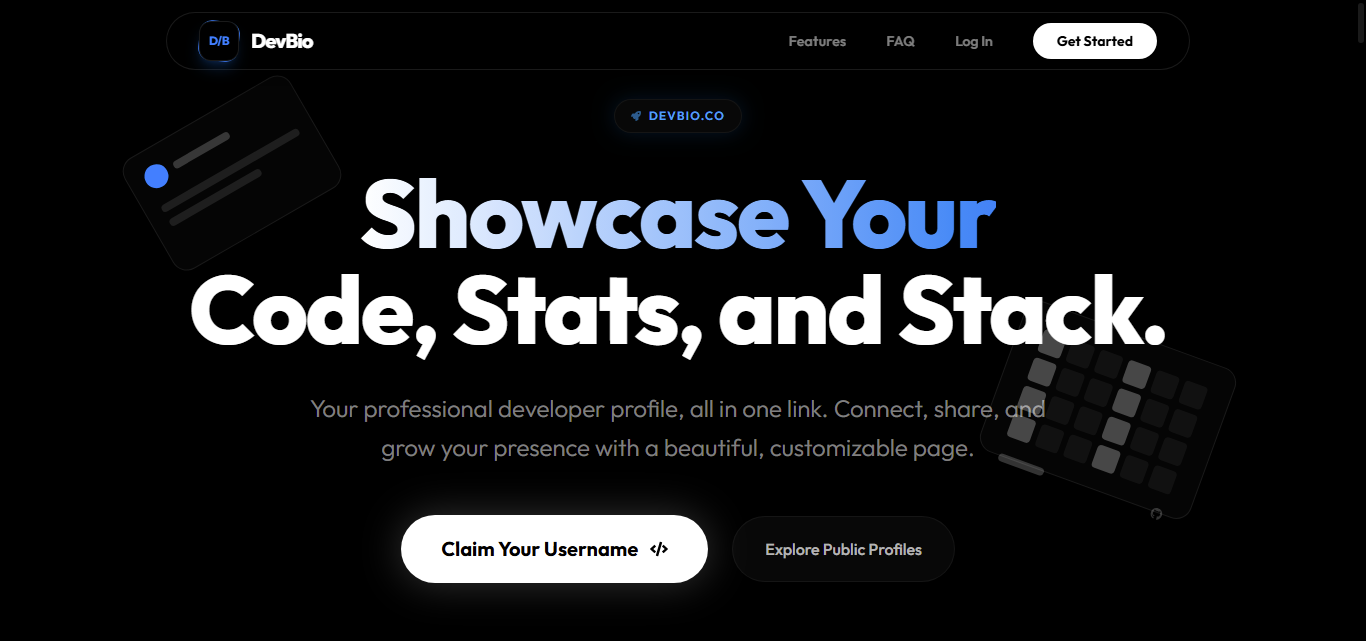
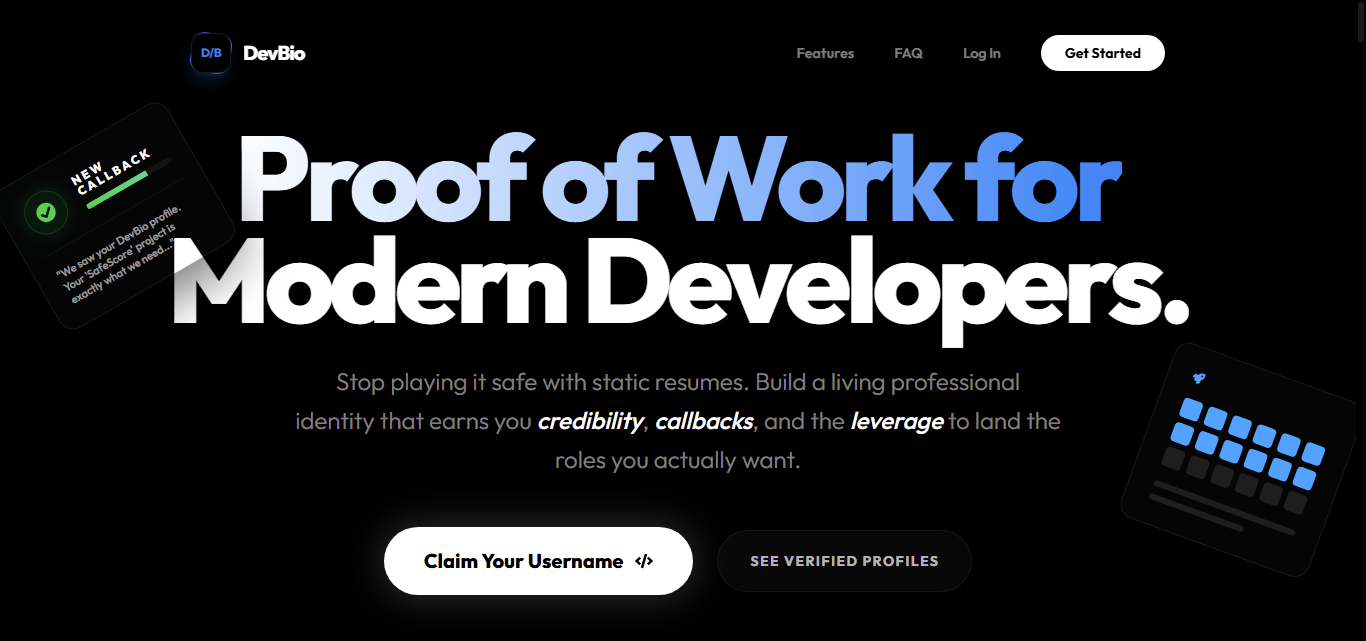
Changed "Showcase your work" to "Proof of Work" to emphasize credibility.

diff --git a/components/landingpage/Hero.tsx b/components/landingpage/Hero.tsx
@@ -1,7 +1,7 @@
 import React from 'react';
 import Link from 'next/link';
 import { motion } from 'framer-motion';
-import { FaGithub, FaCode, FaRocket } from 'react-icons/fa';
+import { FaGithub, FaCode, FaRocket, FaCheckCircle } from 'react-icons/fa';
 
 const Hero: React.FC = () => (
     <section className="relative min-h-screen flex flex-col items-center justify-center pt-32 pb-20 px-6 overflow-hidden">
@@ -11,20 +11,32 @@ const Hero: React.FC = () => (
             <div className="absolute bottom-0 left-1/2 -translate-x-1/2 w-full h-[1px] bg-gradient-to-r from-transparent via-white/10 to-transparent" />
         </div>
 
-        {/* Floating Elements */}
+        {/* Floating Elements - Visualizing the "Payoff" */}
         <motion.div
             initial={{ opacity: 0, scale: 0.8, rotate: -15 }}
             animate={{ opacity: 1, scale: 1, rotate: -15 }}
             transition={{ duration: 1, delay: 0.2 }}
-            className="hidden lg:block absolute top-[20%] left-[10%] w-48 h-32 glass-card rounded-2xl p-4 rotate-[-15deg] opacity-40 hover:opacity-100 transition-opacity"
+            className="hidden lg:block absolute top-[15%] left-[1%] w-50 glass-card rounded-2xl p-5 rotate-[-15deg] opacity-90 hover:opacity-100 transition-all hover:scale-110 z-20 shadow-[0_20px_50px_rgba(0,0,0,0.5)] border-white/10"
         >
-            <div className="flex items-center gap-2 mb-4">
-                <div className="w-6 h-6 rounded-full bg-blue-500" />
-                <div className="h-2 w-16 bg-white/20 rounded-full" />
+            <div className="flex items-center gap-4 mb-4 border-b border-white/5 pb-4">
+                <div className="w-11 h-11 rounded-full bg-green-500/10 flex items-center justify-center text-green-500 shrink-0 shadow-[0_0_20px_rgba(34,197,94,0.15)] border border-green-500/20">
+                    <FaCheckCircle size={20} />
+                </div>
+                <div className="flex-1 min-w-0">
+                    <div className="text-[12px] font-black text-white uppercase tracking-[0.2em] leading-none mb-2">New Callback</div>
+                    <div className="h-1.5 w-full bg-white/5 rounded-full overflow-hidden relative">
+                        <motion.div
+                            initial={{ width: 0 }}
+                            animate={{ width: "70%" }}
+                            transition={{ duration: 1.5, delay: 0.8, ease: "easeOut" }}
+                            className="absolute inset-y-0 left-0 bg-gradient-to-r from-green-500 to-emerald-400"
+                        />
+                    </div>
+                </div>
             </div>
             <div className="space-y-2">
-                <div className="h-2 w-full bg-white/10 rounded-full" />
-                <div className="h-2 w-2/3 bg-white/10 rounded-full" />
+                <p className="text-[11px] text-white/60 font-medium leading-tight">"We saw your DevBio profile. Your 'SafeScore' project is exactly what we need..."</p>
+
             </div>
         </motion.div>
 
@@ -32,16 +44,19 @@ const Hero: React.FC = () => (
             initial={{ opacity: 0, scale: 0.8, rotate: 10 }}
             animate={{ opacity: 1, scale: 1, rotate: 10 }}
             transition={{ duration: 1, delay: 0.4 }}
-            className="hidden lg:block absolute bottom-[25%] right-[10%] w-56 h-40 glass-card rounded-2xl p-6 rotate-[10deg] opacity-40 hover:opacity-100 transition-opacity"
+            className="hidden lg:block absolute bottom-[20%] right-[1%] w-50 h-auto glass-card rounded-2xl p-6 rotate-[10deg] opacity-90 hover:opacity-100 transition-all hover:scale-110 z-20 shadow-[0_20px_50px_rgba(0,0,0,0.5)] border-white/10"
         >
-            <div className="grid grid-cols-6 gap-1.5 grayscale opacity-50">
-                {Array.from({ length: 24 }).map((_, i) => (
-                    <div key={i} className={`aspect-square rounded-sm ${i % 3 === 0 ? 'bg-blue-400' : 'bg-white/10'}`} />
+            <div className="flex items-center justify-between mb-4">
+                <FaRocket size={12} className="text-blue-400" />
+            </div>
+            <div className="grid grid-cols-6 gap-1.5 mb-4">
+                {Array.from({ length: 18 }).map((_, i) => (
+                    <div key={i} className={`aspect-square rounded-sm ${i < 12 ? 'bg-blue-400' : 'bg-white/10'}`} />
                 ))}
             </div>
-            <div className="mt-4 flex items-center justify-between">
-                <div className="h-2 w-12 bg-white/20 rounded-full" />
-                <FaGithub size={12} className="text-white/20" />
+            <div className="flex flex-col gap-2">
+                <div className="h-1.5 w-full bg-white/10 rounded-full" />
+                <div className="h-1.5 w-2/3 bg-white/10 rounded-full" />
             </div>
         </motion.div>
 
@@ -51,25 +66,25 @@ const Hero: React.FC = () => (
                 animate={{ opacity: 1, y: 0 }}
                 transition={{ duration: 0.6 }}
             >
-                <span className="inline-flex items-center gap-2 px-4 py-2 glass rounded-full text-xs font-semibold tracking-widest uppercase text-blue-400 mb-8 border-blue-500/20 shadow-[0_0_20px_rgba(59,130,246,0.15)]">
-                    <FaRocket size={10} className="animate-pulse" />
-                    devbio.co
-                </span>
+                {/* <span className="inline-flex items-center mt-16 gap-2 px-4 py-2 glass rounded-full text-xs font-black tracking-[0.2em] uppercase text-blue-400 mb-8 border-blue-500/20 shadow-[0_0_20px_rgba(59,130,246,0.15)]">
+                    <FaBriefcase size={10} className="animate-bounce" />
+                    Build Your Career Leverage
+                </span> */}
 
-                <h1 className="text-6xl md:text-8xl font-extrabold tracking-tight mb-8">
-                    <span className="text-gradient">Showcase Your</span>
+                <h1 className="text-6xl md:text-[5.5rem] lg:text-[7.5rem] font-black tracking-tighter mb-8 leading-[0.85]">
+                    <span className="text-gradient">Proof of Work for</span>
                     <br />
-                    <span className="text-white">Code, Stats, and Stack.</span>
+                    <span className="text-white">Modern Developers.</span>
                 </h1>
 
                 <p className="text-xl md:text-2xl text-white/50 max-w-3xl mx-auto mb-12 leading-relaxed font-light">
-                    Your professional developer profile, all in one link. Connect, share, and grow your presence with a beautiful, customizable page.
+                    Stop playing it safe with static resumes. Build a living professional identity that earns you <span className="text-white font-medium italic">credibility</span>, <span className="text-white font-medium italic">callbacks</span>, and the <span className="text-white font-medium italic">leverage</span> to land the roles you actually want.
                 </p>
 
                 <div className="flex flex-col sm:flex-row items-center justify-center gap-6">
                     <Link
                         href="/signup"
-                        className="group relative px-10 py-5 bg-white text-black rounded-full font-bold text-xl hover:scale-105 transition-all shadow-[0_0_40px_rgba(255,255,255,0.2)] flex items-center gap-3 overflow-hidden"
+                        className="group relative px-10 py-5 bg-white text-black rounded-full font-black text-xl hover:scale-105 transition-all shadow-[0_0_40px_rgba(255,255,255,0.2)] flex items-center gap-3 overflow-hidden"
                     >
                         <div className="absolute inset-0 bg-gradient-to-r from-blue-400 to-purple-400 opacity-0 group-hover:opacity-10 transition-opacity" />
                         <span>Claim Your Username</span>
@@ -78,9 +93,9 @@ const Hero: React.FC = () => (
 
                     <Link
                         href="/login"
-                        className="px-8 py-5 glass hover:bg-white/5 text-white/70 hover:text-white rounded-full font-medium transition-all"
+                        className="px-8 py-5 glass hover:bg-white/5 text-white/70 hover:text-white rounded-full font-bold transition-all uppercase tracking-widest text-sm border-white/5"
                     >
-                        Explore Public Profiles
+                        See Verified Profiles
                     </Link>
                 </div>
             </motion.div>
